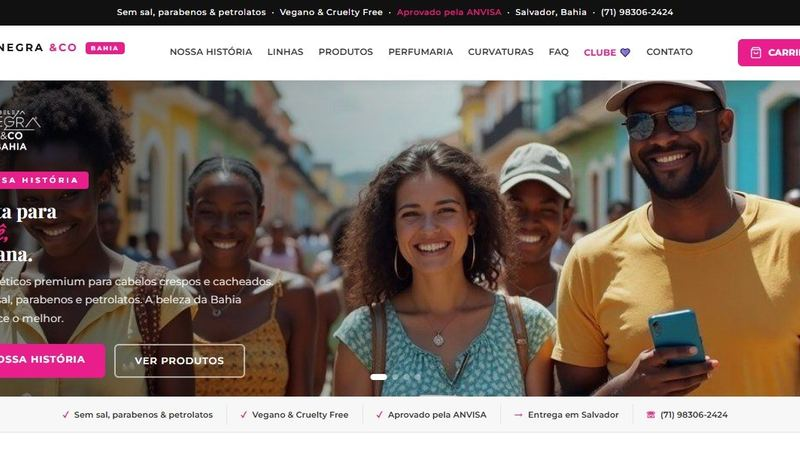
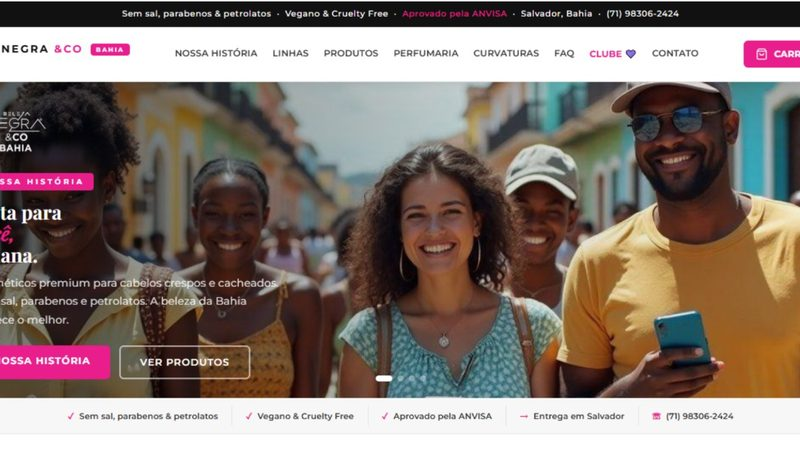
Add files via upload

Changed region(s): [[0.0, 0.0, 1.0, 0.9333], [0.0, 0.0933, 0.1875, 0.1244]]

diff --git a/index.html b/index.html
@@ -4338,7 +4338,7 @@ fmUpdateProgress();
         <div class="cm-section-title">Presença digital do zero.</div>
         <div class="cm-section-desc">Sites institucionais, e-commerce e agentes de IA entregues com autonomia total.</div>
       </div>
-      <div class="cm-section-count">05</div>
+      <div class="cm-section-count">04</div>
     </div>
   </div>
 
@@ -4376,30 +4376,15 @@ fmUpdateProgress();
       </div>
     </div>
 
-    <!-- Card 03 — Diagnóstico IA -->
-    <div class="cm-card" onclick="toggleCase('diag',this)">
-      <span class="cm-card-tag">Automação com IA</span>
-      <div class="cm-card-thumb">
-        <img src="/case-diagnostico.jpg" alt="Agente de Diagnóstico">
-      </div>
-      <div class="cm-card-body">
-        <div class="cm-card-eyebrow">Caso 03</div>
-        <div class="cm-card-title">Todo lead esperava<br>até a reunião.</div>
-        <div class="cm-card-stat">
-          <span class="cm-card-stat-num">&lt;2min</span>
-          <span class="cm-card-stat-lbl">diagnóstico pronto</span>
-        </div>
-      </div>
-    </div>
 
-    <!-- Card 04 — Nutrien -->
+    <!-- Card 03 — Nutrien -->
     <div class="cm-card" onclick="toggleCase('nutrien',this)">
       <span class="cm-card-tag">Site Institucional</span>
       <div class="cm-card-thumb">
         <img src="/case-nutrien.jpg" alt="Nutrien — Núcleo de Nutrição e Saúde">
       </div>
       <div class="cm-card-body">
-        <div class="cm-card-eyebrow">Caso 04</div>
+        <div class="cm-card-eyebrow">Caso 03</div>
         <div class="cm-card-title">13 anos de consultório.<br>Só Instagram e WhatsApp.</div>
         <div class="cm-card-stat">
           <span class="cm-card-stat-num" style="color:#6A3FD9">13</span>
@@ -4408,14 +4393,14 @@ fmUpdateProgress();
       </div>
     </div>
 
-    <!-- Card 05 — Neo Clínica -->
+    <!-- Card 04 — Neo Clínica -->
     <div class="cm-card" onclick="toggleCase('neo',this)">
       <span class="cm-card-tag">Site Institucional</span>
       <div class="cm-card-thumb">
         <img src="/case-neo-clinica.jpg" alt="Neo Clínica">
       </div>
       <div class="cm-card-body">
-        <div class="cm-card-eyebrow">Caso 05</div>
+        <div class="cm-card-eyebrow">Caso 04</div>
         <div class="cm-card-title">Nenhuma presença digital.<br>Construímos a primeira.</div>
         <div class="cm-card-stat">
           <span class="cm-card-stat-num">1º</span>
@@ -4463,7 +4448,7 @@ fmUpdateProgress();
     <div class="cm-detail-inner">
       <div class="cm-detail-img"><img src="/case-diagnostico.jpg" alt="Agente de Diagnóstico com IA"></div>
       <div class="cm-detail-body">
-        <div class="cm-detail-eyebrow">Caso 03 — Automação com Agentes de IA</div>
+        <div class="cm-detail-eyebrow">Automação com Agentes de IA</div>
         <h3 class="cm-detail-title">Todo lead esperava<br>até a reunião.</h3>
         <p class="cm-detail-narrative">O formulário do site captava contato — mas nenhum contexto. Substituímos por um agente de inteligência artificial que conversa, qualifica em cinco perguntas e envia o diagnóstico pronto para a equipe. Sem clique manual, sem retrabalho.</p>
         <div class="cm-detail-stats">
@@ -4479,7 +4464,7 @@ fmUpdateProgress();
     <div class="cm-detail-inner">
       <div class="cm-detail-img"><img src="/case-nutrien.jpg" alt="Nutrien — Núcleo de Nutrição e Saúde"></div>
       <div class="cm-detail-body">
-        <div class="cm-detail-eyebrow">Caso 04 — Site Institucional + Área de Membros</div>
+        <div class="cm-detail-eyebrow">Caso 03 — Site Institucional + Área de Membros</div>
         <h3 class="cm-detail-title">13 anos de consultório.<br>Só Instagram e WhatsApp.</h3>
         <p class="cm-detail-narrative">A Virginia Alves Ribeiro atendia há 13 anos com 11 mil seguidores, consultas, clubes e mentoria — tudo sustentado por redes sociais e atendimento manual. Estruturamos o site institucional completo com 6 serviços organizados, blog e área de membros com três perfis de acesso em lançamento. O domínio e a identidade visual foram construídos para sustentar a operação de forma autônoma.</p>
         <div class="cm-detail-stats">
@@ -4499,7 +4484,7 @@ fmUpdateProgress();
     <div class="cm-detail-inner">
       <div class="cm-detail-img"><img src="/case-neo-clinica.jpg" alt="Neo Clínica"></div>
       <div class="cm-detail-body">
-        <div class="cm-detail-eyebrow">Caso 05 — Site Institucional</div>
+        <div class="cm-detail-eyebrow">Caso 04 — Site Institucional</div>
         <h3 class="cm-detail-title">Nenhuma presença digital.<br>Construímos a primeira.</h3>
         <p class="cm-detail-narrative">A Neo Saúde e Bem-Estar nunca teve um site — nenhuma vitrine própria, nenhuma captação fora do boca a boca. Construímos a estrutura institucional completa do zero: própria, rápida e sem lock-in de plataforma. A clínica opera sozinha ao final.</p>
         <div class="cm-detail-stats">
@@ -4695,7 +4680,7 @@ fmUpdateProgress();
       </div>
     </div>
 
-    <!-- Agente de Diagnóstico — link para Caso 03 -->
+    <!-- Agente de Diagnóstico com IA -->
     <div class="cm-card" onclick="toggleCase('diag',this)">
       <span class="cm-card-tag" style="background:rgba(34,160,90,.8)">Agente de IA</span>
       <div class="cm-card-thumb"><img src="/case-diagnostico.jpg" alt="Agente de Diagnóstico com IA"></div>
